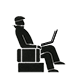
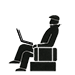
Changed the agent texture based on the state

Changed region(s): [[0.1067, 0.1867, 0.88, 0.9867]]

diff --git a/src/ClientGame.cpp b/src/ClientGame.cpp
@@ -119,6 +119,7 @@ void ClientGame::LoadResources()
     TextureLoad load[] = 
         { 
             { &m_agentTexture,                          "assets/agent.png"                          },
+            { &m_agentHackingTexture,                   "assets/agent_hacking.png"                  },
             { &m_agentIntelTexture,                     "assets/agent_intel.png"                    },
             { &m_agentStakeoutTexture,                  "assets/agent_stakeout.png"                 },
             { &m_intelTexture,                          "assets/intel.png"                          },
@@ -362,7 +363,15 @@ void ClientGame::Render()
             {
                 const AgentEntity* agent = static_cast<const AgentEntity*>(entity);
                 Vec2 position = GetAgentPosition(agent);
-                if (agent->m_hasIntel)
+                if (agent->m_state == AgentEntity::State_Hacking)
+                {
+                    Render_DrawSprite(m_agentHackingTexture, static_cast<int>(position.x) - m_agentHackingTexture.xSize / 2, static_cast<int>(position.y) - m_agentHackingTexture.ySize / 2);
+                }
+                else if (agent->m_state == AgentEntity::State_Stakeout)
+                {
+                    Render_DrawSprite(m_agentStakeoutTexture, static_cast<int>(position.x) - m_agentStakeoutTexture.xSize / 2, static_cast<int>(position.y) - m_agentStakeoutTexture.ySize / 2);
+                }
+                else if (agent->m_hasIntel)
                 {
                     Render_DrawSprite(m_agentIntelTexture, static_cast<int>(position.x) - m_agentIntelTexture.xSize / 2, static_cast<int>(position.y) - m_agentIntelTexture.ySize / 2);
                 }

diff --git a/src/ClientGame.h b/src/ClientGame.h
@@ -152,6 +152,7 @@ private:
     int                 m_stateY;
 
     Texture             m_agentTexture;
+    Texture             m_agentHackingTexture;
     Texture             m_agentStakeoutTexture;
     Texture             m_agentIntelTexture;
     Texture             m_intelTexture;
